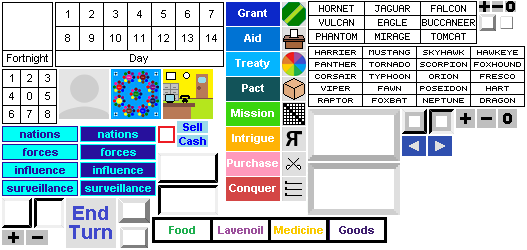
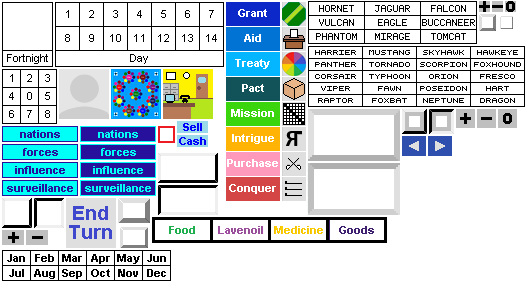
Add files via upload

diff --git a/dominion/components.js b/dominion/components.js
@@ -5,6 +5,7 @@
 var DominionScape, DominionGraphics, DominionCalcPad, DominionText, DominionRandomizer, Controller;		//library
 var Nations, Powers, PlayerPower, AlliedStates, CityStates, Tomcat, DiplomacyTable;								//nations
 var Continents, Archipelagos, Atolls, Map, WorldMap;																		//maps
+var Calendar;																															//utility
 var Intro, Demo, Tutorial, MiniGames;																							//sim
 
 //------------------------------------
@@ -47,7 +48,7 @@ var StepButton;					//UNLOGGED
 
 var DemoImage, TutorialImage, MiniGamesImage, TestingImage;		//image maps
 var MinistryPanelImage, MinistryImagePanel;							//image panels
-var ArverniDigitImages;
+var FortnightDigitImages, JetLetterImages, TinyDigitImages, ArverniDigitImages, MediumDigitImages;
 var PowerLabelImages, AlliedLabelImages;
 var AllianceImage;										//UNLOGGED - REDUNDANT
 
@@ -66,15 +67,13 @@ var FirebrandHorizontalWarheadImages, SilklightHorizontalWarheadImages, Firebran
 //Wards
 var FlareImage, ChaffImage, FlareSymbolImage, ChaffSymbolImage;
 
-var FortnightDigitImages, JetLetterImages, TinyDigitImages;
-
 //--------------------------------------
 //---------- SPRITES -------------------
 
 //Army
 var LeftTrooperSprite, RightTrooperSprite, GrenadeSprite, LeftBazookaSprite, RightBazookaSprite,
 	 LeftGunArmSprite, RightGunArmSprite, LeftGrenadierArmSprite, RightGrenadierArmSprite, LeftBazookerArmSprite, RightBazookerArmSprite;	//troopers
-var LeftHowitzerSprite, RightHowitzerSprite, JeepSprite, APCSprite, SmallBarrelSprite, LeftJeepGunSprite, RightJeepGunSprite;		//light units - UNLOGGED
+var LeftHowitzerSprite, RightHowitzerSprite, JeepSprite, APCSprite, SmallBarrelSprite, LeftJeepGunSprite, RightJeepGunSprite;					//light units
 var AVSprite, ArtillerySprite, IFVSprite, LeftAVCannonSprite, RightAVCannonSprite, LeftBarrelSprite, RightBarrelSprite;				//medium units
 var MobileGunSprite, LeftTruckSprite, RightTruckSprite, TankSprite, TankHutchSprite, LargeBarrelSprite;	//heavy units - UNLOGGED
 var ATWSprite, LeftATMSprite, RightATMSprite, AAGunSprite, LeftLCGSprite, RightLCGSprite, LeftLCGBarrelSprite, RightLCGBarrelSprite; //defence units - U
@@ -140,7 +139,7 @@ var PurchaseView, GrantView, PactView, TreatyView, IntrigueView;
 var AssetsView, ForcesView, InvestmentView, BondsView;
 var AirMissionView, ChampionsView;									//missions
 var SeaTheatre, BeachheadTheatre;									//theatres
-var SolicitationView, SolicitationInfoView, TurnConsoleView, MultipleChoiceView;
+var SolicitationView, SolicitationInfoView, TurnConsoleView, ChoiceView, ChoiceInfoView;
 var GuideView, GuideInfoView, DocumentationConsoleView;
 
 //--------------------------------------------------
@@ -249,6 +248,7 @@ DominionComponents.prototype = {
 		Map = new DominionMap();
 		WorldMap = new DominionWorldMap();
 //		Office = new DominionOffice();
+		Calendar = new GenieCalendar();
 	},
 	SetCoreObjects() {
 		var i, j;
@@ -275,6 +275,9 @@ DominionComponents.prototype = {
 		Map.Set(this.Screen, this.InfoBox, this.ControlPanel, this.GraphicsTool, this.CalcPad, this.TextWriter, this.ScreenRect);
 		Map.Generate();
 		WorldMap.Set(this.Screen, this.InfoBox, this.ControlPanel, this.GraphicsTool, this.CalcPad, this.TextWriter, this.ScreenRect);
+		Calendar.Set();
+		Calendar.SetYear(2025);
+		Calendar.SetBaseDate(DOMINION.DATE);
 	},
 	CreateSimObjects() {
 
@@ -386,8 +389,6 @@ DominionComponents.prototype = {
 		MiniGamesImage = new GenieImageMap();
 		TestingImage = new GenieImageMap();
 
-		ArverniDigitImages = new GenieImage();
-
 		PowerLabelImages = new GenieImage();
 		AlliedLabelImages = new GenieImage();
 
@@ -403,6 +404,8 @@ DominionComponents.prototype = {
 
 		JetLetterImages = new GenieImage();
 		TinyDigitImages = new GenieImage();
+		ArverniDigitImages = new GenieImage();
+		MediumDigitImages = new GenieImage();
 
 		//Controls
 		CheckBoxImage = new GenieImage();
@@ -416,8 +419,6 @@ DominionComponents.prototype = {
 		TutorialImage.Set(this.Screen, ImageManager.Pics[IMAGeINDEX.TUTORIAL], TUTORIAlIMAGE, TutorialMap);
 		MiniGamesImage.Set(this.Screen, ImageManager.Pics[IMAGeINDEX.MINiGAMES], MINiGAMEsIMAGE, MiniGamesMap);
 		TestingImage.Set(this.Screen, ImageManager.Pics[IMAGeINDEX.TESTING], TESTINgIMAGE, TestingMap);
-
-		ArverniDigitImages.Set(this.InfoBox, ImageManager.Pics[IMAGeINDEX.GENIeIMAGES], ARVERNiDIGItIMAGEs);
 
 		PowerLabelImages.Set(this.InfoBox, ImageManager.Pics[IMAGeINDEX.IMAGES], POWErLABElIMAGEs);
 		AlliedLabelImages.Set(this.InfoBox, ImageManager.Pics[IMAGeINDEX.IMAGES], ALLIEdLABElIMAGEs);
@@ -435,6 +436,8 @@ DominionComponents.prototype = {
 		//Digits
 		JetLetterImages.Set(this.Screen, ImageManager.Pics[IMAGeINDEX.IMAGES], JEtLETTErIMAGES);
 		TinyDigitImages.Set(this.Screen, ImageManager.Pics[IMAGeINDEX.IMAGES], TINyDIGItIMAGES);
+		ArverniDigitImages.Set(this.InfoBox, ImageManager.Pics[IMAGeINDEX.GENIeIMAGES], ARVERNiDIGItIMAGEs);
+		MediumDigitImages.Set(this.Screen, ImageManager.Pics[IMAGeINDEX.GENIeIMAGES], MEDIUmDIGITsIMAGE);
 
 		//Controls
 		CheckBoxImage.Set(this.Screen, ImageManager.Pics[IMAGeINDEX.GENIeCONTROLS], CHECkBOxIMAGE);
@@ -577,8 +580,6 @@ DominionComponents.prototype = {
 		//Turns
 		SolicitationView = new DominionSolicitationView();
 		SolicitationInfoView = new DominionSolicitationInfoView();
-		TurnConsoleView = new DominionTurnConsoleView();
-		MultipleChoiceView = new DominionChoiceInfoView();
 
 		DocumentationConsoleView = new DominionDocumentationConsoleView();
 	},

diff --git a/dominion/data.js b/dominion/data.js
@@ -53,7 +53,7 @@ var MOBILE = { SCALE: SCREEN.MOBILE.W/SCREEN.WIDTH };
 
 const ATTACK = true;
 
-var DOMINION = { GAME: { DAILY: 0, FREeFORM: 1, MULTiCHOICE: 2, SURVIVAL: 3 }, DATE: "2025-08-05",
+var DOMINION = { GAME: { RANDOM: 0, DAILY: 1, FREeFORM: 2, MULTiCHOICE: 4, SURVIVAL: 8 }, DATE: "2025-08-05",
 					  COLOUR: { CITySTATE: "rgb(175,175,255)",
 									FOOD: "rgb(223,239,143)", ENTERTAINMENT: "rgb(209,255,095)", ARMS: "rgb(255,175,175)", LAVENOIL: "rgb(175,143,207)",
 									BONDS: "rgb(255,239,239)", MEDICINE: "rgb(159,255,255)", GOODS: "rgb(191,223,239)", SURVEILLANCE: "rgb(255,223,111)",
@@ -69,17 +69,23 @@ var DOMINION = { GAME: { DAILY: 0, FREeFORM: 1, MULTiCHOICE: 2, SURVIVAL: 3 }, D
 										BITS: { GENDER: 0, HAIR: { S: 3, E: 1 }, FACE: { S: 6, E: 4 }, EYES: { S: 12, E: 7 }, NOSE: { S: 15, E: 13 } }
 												//TODO: more bits needed for different face and hair types
 									 },
-					  TURNS: { SHORT: 17, MEDIUM: 34, LONG: 51 }, FORTNIGHTS: 100, YEARS: 4
+					  TURNS: { SHORT: 40, MEDIUM: 70, LONG: 100 }, VOTES: { SHORT: 20, MEDIUM: 35, LONG: 50 }, FORTNIGHTS: 100, YEARS: 4
 };
-var SITUATION = { OFFER: 0, PROPOSAL: 1, INVESTMENT: 2, BOND: 3, INTRIGUE: 4, MISSION: 5, BLOCKADE: 6, INVASION: 7, TYPES: 8,					//Standard
-						OIL: 8, CULT: 9, SOVEREIGNITY: 10, INTERVENTION: 11, SPLINTERING: 12, SECESSION: 13, ACCESSION: 14, DISSIDENT: 15 };		//Rare
+var SITUATION = { OFFER: 0, PROPOSAL: 1, INVESTMENT: 2, BOND: 3, AID: 4, CONQUEST: 5, GRANT: 6, DISASTER: 7,										//Common -		40%
+						INTRIGUE: 8, PACT: 9, PURCHASE: 10, TREATY: 11, SOVEREIGNITY: 12, AUCTION: 13, DRAFT: 14, SATELLITE: 15,						//Occasional - 30%
+						BLOCKADE: 16, CHAMPIONS: 17, DOGFIGHT: 18, HUNTING: 19, ICBM: 20, INTERDICTION: 21, SABOTAGE: 22, STRIKE: 23,				//Unusual -		20%
+						OIL: 24, CULT: 25, INTERVENTION: 26, SPLINTERING: 27, SECESSION: 28, ACCESSION: 29, DISSIDENT: 30,	PEACEKEEPING: 31,		//Rare -			10%
+						COUP: 32,
+						TYPES: { COMMON: 0, OCCASIONAL: 1, UNUSUAL: 2, RARE: 3 } };
 var BONDS = { TYPES: 10 };
 var OIL = { INDIGOIL: 0, LAPISOIL: 1, COBALOIL: 2, CERULOIL: 3, AZUROIL: 4, MAGENOIL: 5, BOYSENOIL: 6, PAISLIOIL: 7, TYPES: 8 };
 var Oils = [ "Indigoil", "Lapisoil", "Cobaloil", "Ceruloil", "Azuroil", "Magenoil", "Boysenoil", "Paislioil" ];
 var NewspaperTitles = [ "Chronicle", "Courant", "Bugle", "Dispatch", "Echo", "Examiner", "Gazette", "Guardian", "Herald", "Independent",
 								"Journal", "Mercury", "Metro", "Phoenix", "Post", "Record", "Standard", "Times", "Tribune", "Voice"
 ];
-var Profanities = [ "sineP", "gin", "noroM", "renoB", "cuf", "kuf", "quf", "gaf", "par", "cid", "kid", "tit", "muc", "gav" ];
+var Profanities = [ "sineP", "gin", "noroM", "renoB", "cuf", "kuf", "quf", "gaf", "par", "cid", "kid", "tit", "muc", "gav", "coc", "koc", "qoc",
+						  "cok", "kok", "qok", "qoc", "qok", "qoq", "naruQ" ];
+						//"cixoT"?
 
 //---------------------------------------
 //---------- CONTROLS -------------------

diff --git a/dominion/Mobile.htm b/dominion/Mobile.htm
@@ -72,6 +72,7 @@
 	<script src="..\library\MobileObject.js"></script>
 	<script src="..\library\DiplomacyTable.js"></script>
 	<script src="..\library\GenieSpectrum.js"></script>
+	<script src="..\library\objects\GenieCalendar.js"></script>
 
 	<!-- Tools -->
 	<script src="..\library\GenieRandom.js"></script>
@@ -132,6 +133,7 @@
 
 	<!-- data -->
 	<script src="data.js"></script>
+	<script src="data\daily.js"></script>
 	<script src="data\names.js"></script>
 	<script src="data\colours.js"></script>
 	<script src="data\nations.js"></script>
@@ -139,7 +141,6 @@
 	<script src="data\controls.js"></script>
 	<script src="data\imagemaps.js"></script>
 	<script src="data\images.js"></script>
-	<script src="data\seeds.js"></script>
 	<script src="data\sprites.js"></script>
 	<script src="data\agents.js"></script>
 	<script src="data\views.js"></script>
@@ -172,6 +173,12 @@
 	<script src="units\combatant.js"></script>
 	<script src="units\combatants\LART.js"></script>
 	<script src="units\combatants\MART.js"></script>
+	<script src="units\combatants\HART.js"></script>
+	<script src="units\combatants\jeep.js"></script>
+	<script src="units\combatants\howitzer.js"></script>
+	<script src="units\combatants\APC.js"></script>
+	<script src="units\combatants\AV.js"></script>
+	<script src="units\combatants\IFV.js"></script>
 
 	<!-- jets -->
 	<script src="units\jet.js"></script>
@@ -289,8 +296,11 @@
 	<!-- intro -->
 	<script src="views\intro.js"></script>
 	<script src="views\intro\data.js"></script>
-	<script src="views\intro\controls.js"></script>
-	<script src="views\intro\update.js"></script>
+	<script src="views\intro\open.js"></script>
+	<script src="views\intro\start.js"></script>
+	<script src="views\intro\info.js"></script>
+	<script src="views\intro\character.js"></script>
+	<script src="views\intro\past.js"></script>
 
 	<!-- turn -->
 	<script src="views\solicitation.js"></script>
@@ -300,8 +310,7 @@
 	<script src="views\sub\advice.js"></script>
 	<script src="views\sub\turn.js"></script>
 	<script src="views\newspaper.js"></script>
-
-	<!-- multiple choice -->
+	<script src="views\choice.js"></script>
 	<script src="views\sub\choice.js"></script>
 
 	<script src="views\missions.js"></script>

diff --git a/dominion/Dominion.htm b/dominion/Dominion.htm
@@ -80,6 +80,7 @@
 	<script src="..\library\GenieBuffer.js"></script>
 	<script src="..\library\DiplomacyTable.js"></script>
 	<script src="..\library\GenieSpectrum.js"></script>
+	<script src="..\library\objects\GenieCalendar.js"></script>
 
 	<!-- Tools -->
 	<script src="..\library\GenieGraphics.js"></script>
@@ -138,6 +139,7 @@
 
 	<!-- data -->
 	<script src="data.js"></script>
+	<script src="data\daily.js"></script>
 	<script src="data\html.js"></script>
 	<script src="data\names.js"></script>
 	<script src="data\colours.js"></script>
@@ -146,7 +148,6 @@
 	<script src="data\controls.js"></script>
 	<script src="data\imagemaps.js"></script>
 	<script src="data\images.js"></script>
-	<script src="data\seeds.js"></script>
 	<script src="data\sprites.js"></script>
 	<script src="data\agents.js"></script>
 	<script src="data\views.js"></script>
@@ -179,6 +180,12 @@
 	<script src="units\combatant.js"></script>
 	<script src="units\combatants\LART.js"></script>
 	<script src="units\combatants\MART.js"></script>
+	<script src="units\combatants\HART.js"></script>
+	<script src="units\combatants\jeep.js"></script>
+	<script src="units\combatants\howitzer.js"></script>
+	<script src="units\combatants\APC.js"></script>
+	<script src="units\combatants\AV.js"></script>
+	<script src="units\combatants\IFV.js"></script>
 
 	<!-- jets -->
 	<script src="units\jet.js"></script>
@@ -294,8 +301,11 @@
 	<!-- intro -->
 	<script src="views\intro.js"></script>
 	<script src="views\intro\data.js"></script>
-	<script src="views\intro\controls.js"></script>
-	<script src="views\intro\update.js"></script>
+	<script src="views\intro\open.js"></script>
+	<script src="views\intro\start.js"></script>
+	<script src="views\intro\info.js"></script>
+	<script src="views\intro\character.js"></script>
+	<script src="views\intro\past.js"></script>
 
 	<!-- turn -->
 	<script src="views\solicitation.js"></script>
@@ -305,8 +315,7 @@
 	<script src="views\sub\advice.js"></script>
 	<script src="views\sub\turn.js"></script>
 	<script src="views\newspaper.js"></script>
-
-	<!-- multiple choice -->
+	<script src="views\choice.js"></script>
 	<script src="views\sub\choice.js"></script>
 
 	<script src="views\missions.js"></script>

diff --git a/dominion/oNations.js b/dominion/oNations.js
@@ -5,8 +5,9 @@ var OctagonalNations = function () {
 	var CalcPad;
 	var ScreenRect;
 
-	var Type, DailyDate;
+	var Type;
 	var Turn, Fortnight, Phase, TurnLimit;  //TODO: replace .Turn with .Fortnight
+	var DailyCharacters;
 };
 OctagonalNations.prototype = new GenieGame();
 OctagonalNations.prototype.Set = function(intrfc, gTool, cPad, tWriter, rGenerator) {
@@ -20,7 +21,6 @@ OctagonalNations.prototype.Set = function(intrfc, gTool, cPad, tWriter, rGenerat
 	this.Settings += GAME.STATE.RUNNING;
 	this.Components = new DominionComponents();
 
-	this.DailyDate = DOMINION.DATE;
 	this.Turn = 1;
 	this.Fortnight = 0;
 	this.Phase = 0;
@@ -41,10 +41,11 @@ OctagonalNations.prototype.Start = function() {
 	GlobalView.Open();
 	if (Game.CheckMobile()) {
 		GlobalView.Disable();
+//		this.Randomizer.SetDailySeed(DOMINION.DATE);
+		this.SetDaily(DOMINION.DATE);
 		IntroView.Open();
 		IntroView.Update();
 		IntroView.ConsoleView.DeActivateControls();
-		this.Randomizer.SetDailySeed(DOMINION.DATE);
 	} else
 		GlobalView.Update();
 };

diff --git a/dominion/map.js b/dominion/map.js
@@ -17,6 +17,7 @@ var DominionMap = function() {
 	var PowerOctagon, AlliedOctagon, AlliedSash, CityStateOctagon, AtollOctagon;
 	var ScaledPowerOctagon, ScaledAlliedOctagon, ScaledSash, ScaledCityStateOctagon, ScaledAtollOctagon;
 	var ScaledPowerLocations, ScaledAlliedLocations, ScaledCityStateLocations;
+	var SelectedNation;
 
 	var i, j, x, y, colour;
 };
